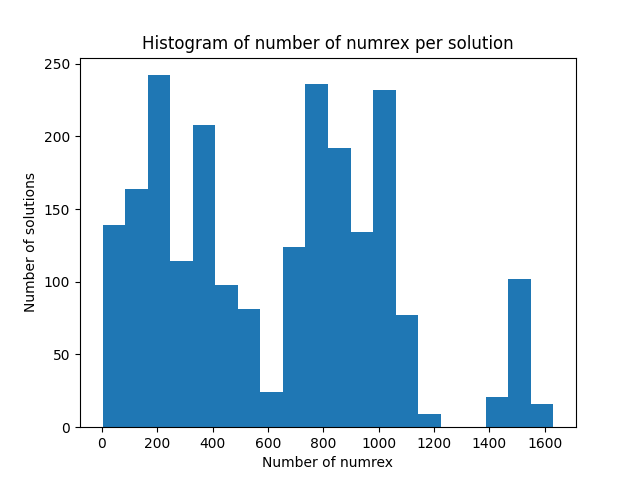
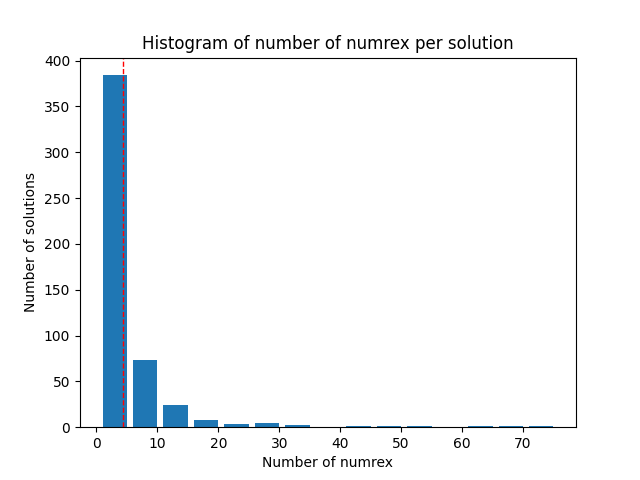
dataviz

diff --git a/viz/data_viz.py b/viz/data_viz.py
@@ -133,15 +133,22 @@ class DataVisualizer:
             else:
                 solution_count[i[0]] = 1
 
-        solutions = list(solution_count.keys())
-        counts = list(solution_count.values())
-
         # Create a histogram to show the number of numrex for each solution
-        plt.bar(solutions, counts)
-        plt.xlabel('Solution')
-        plt.ylabel('Number of numrex')
+        histogram = [0 for i in range(max(solution_count.values())+1)]
+        for i in solution_count.values():
+            histogram[i] += 1
+
+        mean = sum([i*j for i, j in enumerate(histogram)]) / sum(histogram)
+
+        # Agregate to have classes width of 5
+        histogram = [sum(histogram[i:i+5]) for i in range(0, len(histogram), 5)]
+        
+        plt.axvline(mean, color='r', linestyle='dashed', linewidth=1)
+        plt.bar(range(3, 5*len(histogram), 5), histogram, width=4)
+        plt.xlabel('Number of numrex')
+        plt.ylabel('Number of solutions')
         plt.title('Histogram of number of numrex per solution')
-        plt.savefig(self.img_folder + 'solution_numrex_hist.png')
+        plt.savefig(self.img_folder + 'solution_rex_hist.png')
         plt.show()
 
 # Usage
